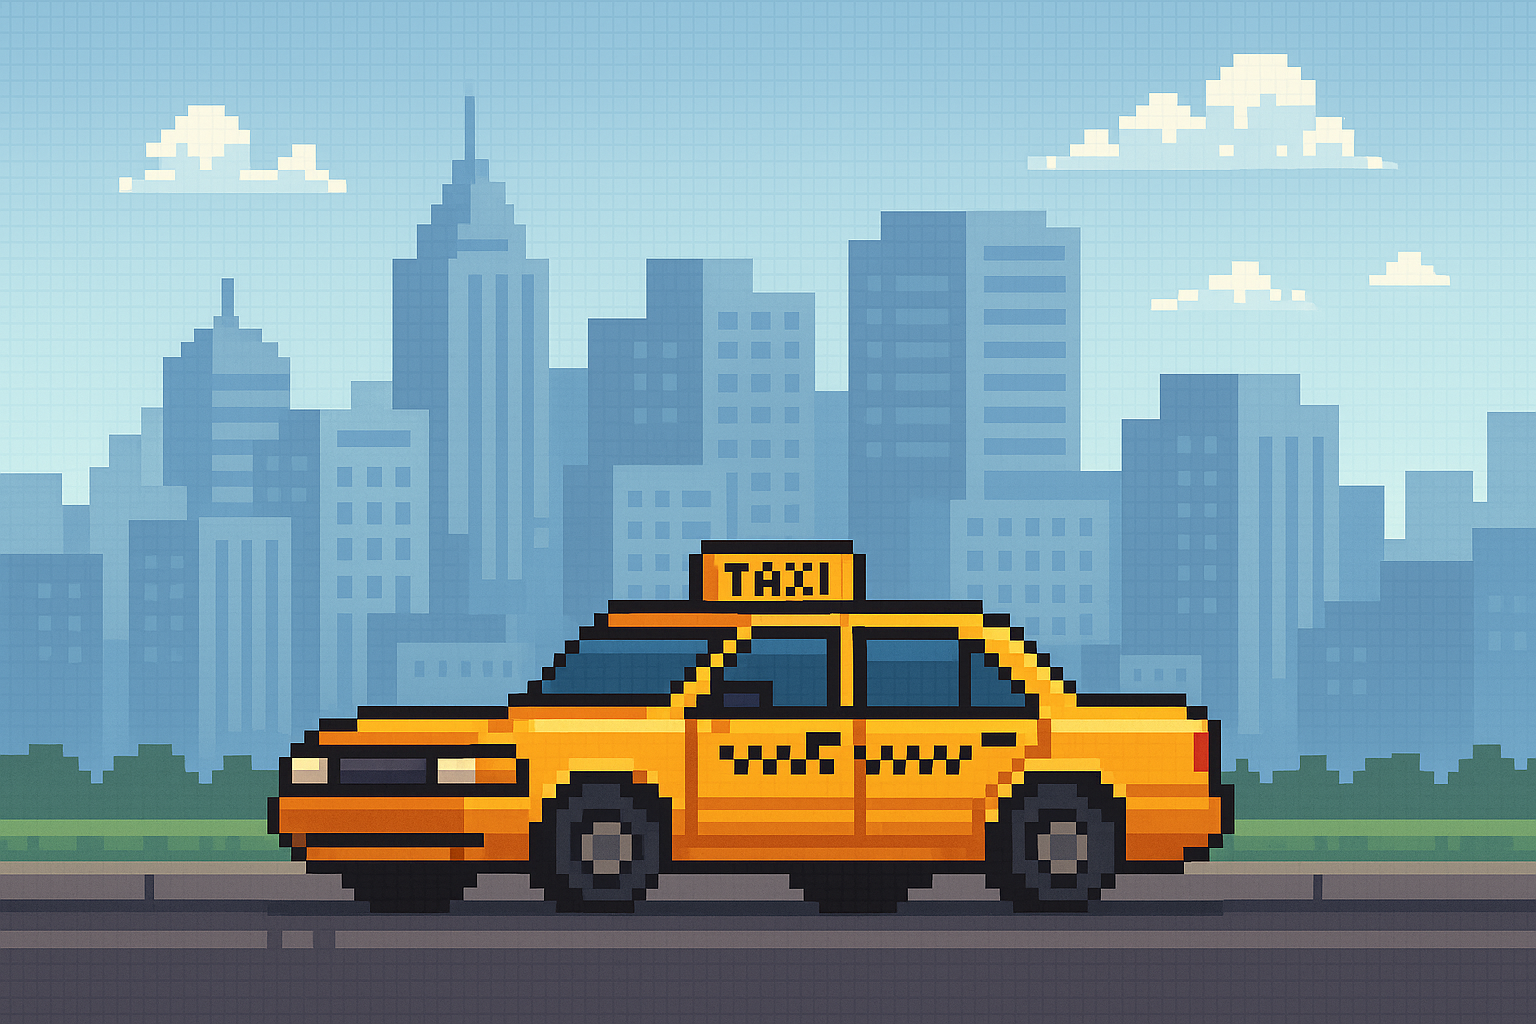
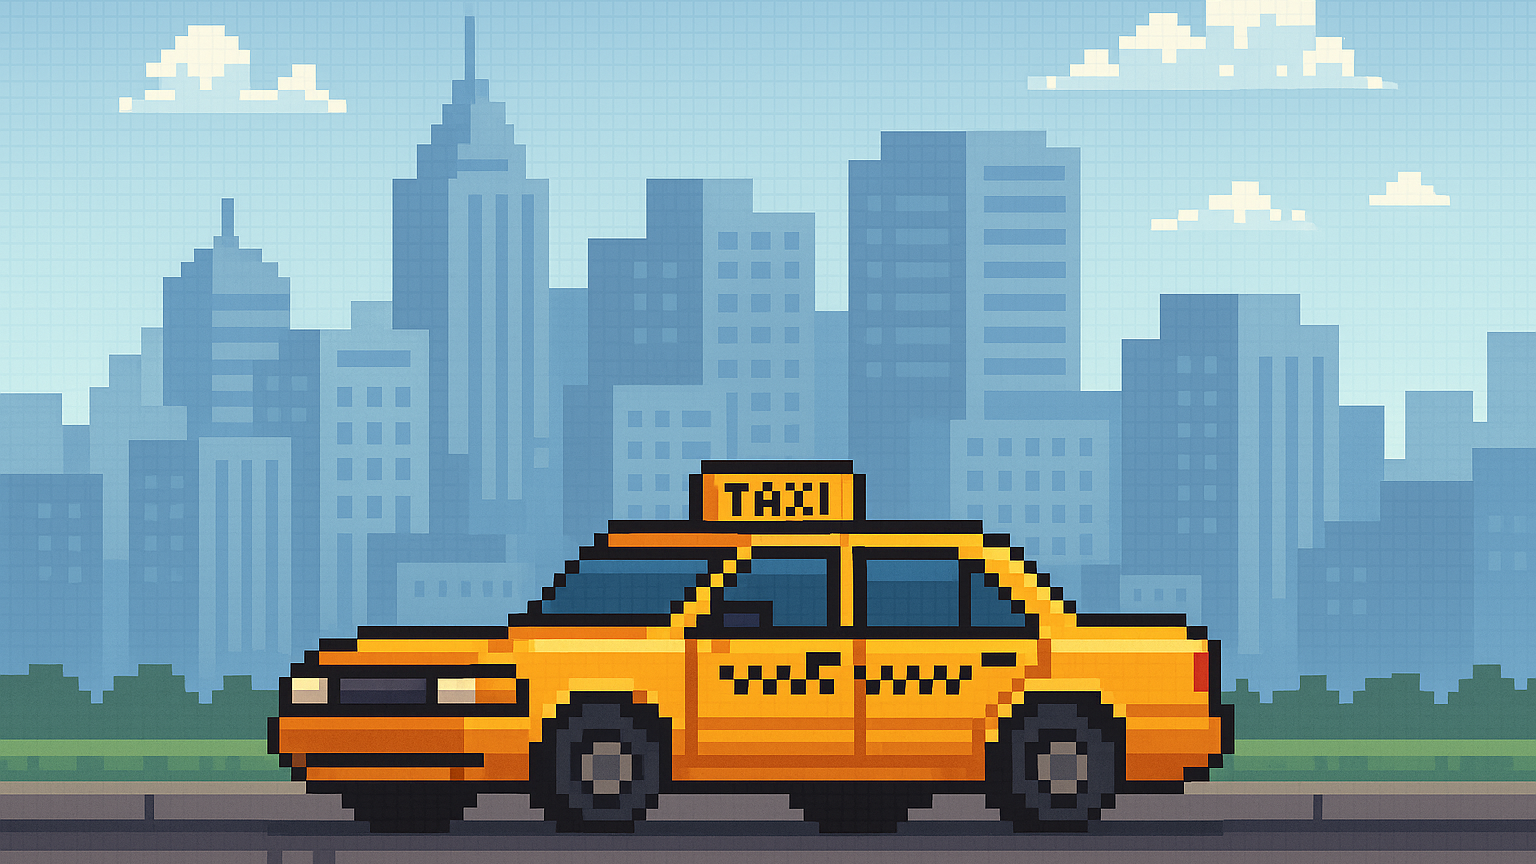
fullscreen

diff --git a/src/scenes/game.py b/src/scenes/game.py
@@ -72,7 +72,7 @@ class Game:
         self.new_job()
 
         # === Minimap ===
-        self.minimap_scale = 1.5
+        self.minimap_scale = 2
         self.minimap_surface = self._create_minimap()
 
         # Load PNG backgrounds for minimap and dashboard
@@ -119,6 +119,8 @@ class Game:
             elif event.type == pygame.KEYDOWN:
                 if event.key == pygame.K_SPACE:
                     self.car.toggle_handbrake()
+                elif event.key == pygame.K_ESCAPE:
+                    self.main.quit()
 
         camera_x = max(0, min(self.car.pos.x - self.main.WIDTH // 2, self.MAP_WIDTH - self.main.WIDTH))
         camera_y = max(0, min(self.car.pos.y - self.main.HEIGHT // 2, self.MAP_HEIGHT - self.main.HEIGHT))

diff --git a/src/main.py b/src/main.py
@@ -5,13 +5,14 @@ from scenes.game import Game
 
 class Main():
     def __init__(self):
-        self.WIDTH = 1200
-        self.HEIGHT = 800
+        self.WIDTH = 1920
+        self.HEIGHT = 1080
         self.FPS = 60
 
         pygame.init()
 
-        self.screen = pygame.display.set_mode((self.WIDTH, self.HEIGHT))
+        self.screen = pygame.display.set_mode((0, 0), pygame.FULLSCREEN)
+        self.WIDTH, self.HEIGHT = self.screen.get_size()
         pygame.display.set_caption("Ruber Taxi Service")
 
         self.clock = pygame.time.Clock()
